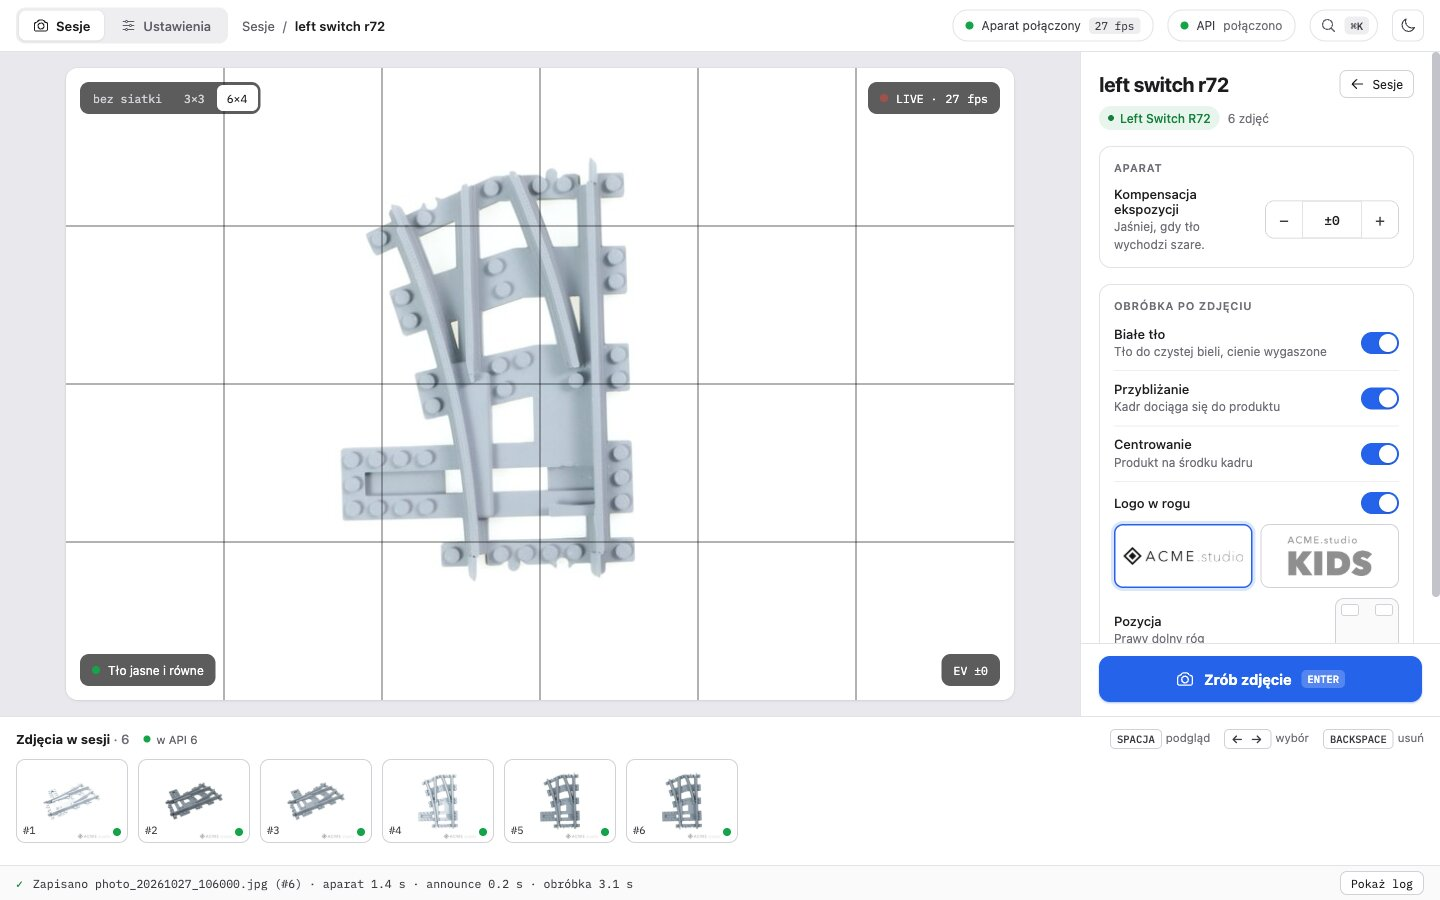
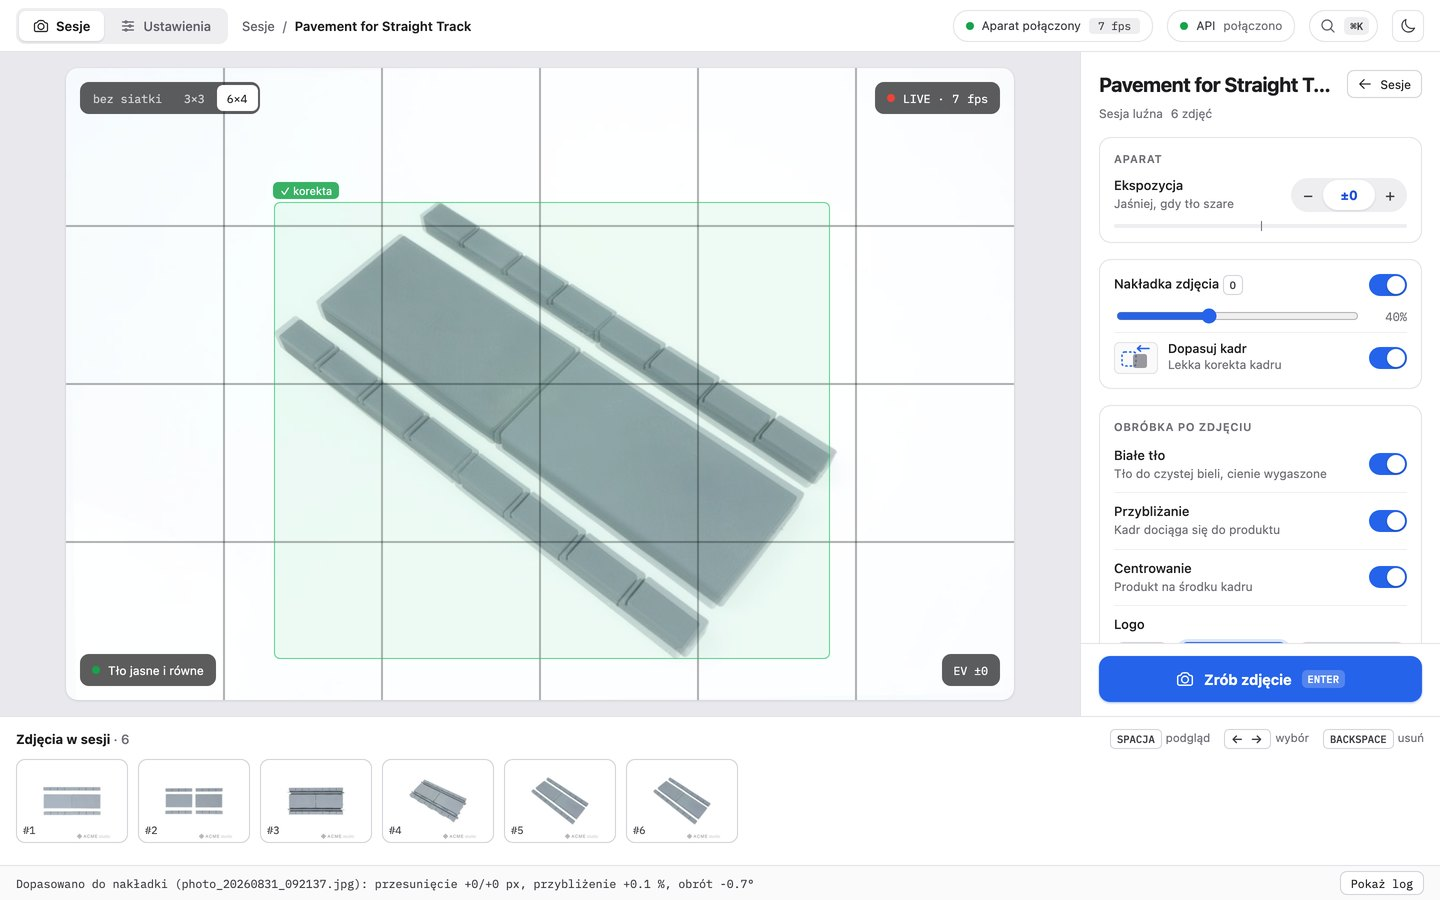
Camera Capture 2.6.5: README shows the new side panel, the photo overlay and framing alignment

diff --git a/src/version.py b/src/version.py
@@ -9,7 +9,7 @@ Bez importow — spec PyInstallera czyta ten plik zanim cokolwiek innego
 zdazy sie zaimportowac.
 """
 
-APP_VERSION = "2.6.4"
+APP_VERSION = "2.6.5"
 
 GITHUB_REPO = "Xeross99/camera-capture"
 

diff --git a/README.md b/README.md
@@ -38,7 +38,8 @@ The same products straight from the camera and after processing in the app, with
 2. **Processing**, each step switchable in the post-processing panel:
    - **White background:** the background is pushed to pure white and the shadows under the product fade out.
    - **Zoom and centring:** the frame closes in on the product and puts it in the centre instead of wherever
-     it happened to land on the table. A photo taken at an angle stays at that angle: nothing is straightened.
+     it happened to land on the table. A photo taken at an angle stays at that angle: nothing is straightened
+     (apart from the small correction to the photo overlay, see [Photo overlay](#photo-overlay-and-alignment)).
    - **Logo:** one of two logo variants (or none), in the chosen corner of the frame. The README images use
      a sample "ACME.studio" logo.
 3. **Saving and upload.** The finished file is stored in `photos/<session>/` with the raw camera original
@@ -62,13 +63,39 @@ searched and narrowed to a day, week or month and to a number of photos, and the
 
 ### Session
 
-Live view from the camera with a framing grid like the camera's own (3×3 or 6×4), a badge telling whether the
-background is bright enough, and exposure compensation. On the right, the processing steps and the logo with
-its corner; at the bottom, the session's photo strip (green dot: the photo is already in the API, orange:
-waiting to upload). Photos taken on another computer are downloaded from the API automatically.
+Live view from the camera with a framing grid like the camera's own (3×3 or 6×4) and a badge telling whether
+the background is bright enough. At the bottom, the session's photo strip (green dot: the photo is already in
+the API, orange: waiting to upload). Photos taken on another computer are downloaded from the API automatically.
 
-<img src="assets/readme/session.jpg" width="100%" alt="Session: camera live view with a framing grid, processing settings and the photo strip">
-<sub>Captured without a camera connected: one of the session's photos stands in for the live view.</sub>
+<img src="assets/readme/session.jpg" width="100%" alt="Session: camera live view with the photo overlay and the alignment frame, the side panel and the photo strip">
+<sub>Captured with a stand-in camera: the photo overlay is on and the green frame says the next shot will be aligned to it.</sub>
+
+<img src="assets/readme/sidebar.jpg" width="300" align="right" alt="Side panel: exposure, photo overlay, processing and logo">
+
+The side panel, top to bottom:
+
+- **Exposure:** − and + change the camera's exposure compensation; the bar underneath shows how far it is
+  from zero.
+- **Photo overlay:** an earlier photo over the live view with an opacity slider, and **Align framing**
+  (see below).
+- **Processing after the shot:** white background, zoom and centring.
+- **Logo:** no logo or one of two variants, and the corner of the frame it goes in.
+
+<br clear="right">
+
+### Photo overlay and alignment
+
+Shooting a series, every photo should have the product in exactly the same place, so that flipping through
+them with the arrow keys nothing jumps. <kbd>O</kbd> lays the last photo over the live view, half transparent:
+put the next product on top of it. The overlay stays on that photo; to use another one, open it
+(<kbd>Space</kbd>) and press <kbd>O</kbd>.
+
+With **Align framing** on, the app helps a little: when the product almost covers the overlay, the frame of
+the finished photo is pulled onto it, by at most 2 % sideways, 3 % in size and 3° of rotation. A product placed
+differently on purpose is left alone. Over the live view, the overlay's outline turns green ("aligning") when
+the next shot will be corrected and stays grey ("too far") when it will not.
+
+<img src="assets/readme/alignment.jpg" width="100%" alt="The same photo with the overlay laid over it: without correction the product is doubled, with correction it sits exactly in the overlay">
 
 ### Photo viewer and editing
 
@@ -104,6 +131,7 @@ theme switches with the icon in the top right corner.
 | <kbd>Space</kbd> | opens the photo viewer full window |
 | <kbd>←</kbd> <kbd>→</kbd> | moves between photos |
 | <kbd>E</kbd> | edits the logo on the photo being viewed |
+| <kbd>O</kbd> | turns the photo overlay on and off (in the viewer: lays the photo being viewed over the live view) |
 | <kbd>Backspace</kbd> | deletes the photo: it goes to the trash on disk and disappears from the API |
 | <kbd>Esc</kbd> | closes the viewer or leaves the session |
 | <kbd>P</kbd> | turns the camera live view on and off |
